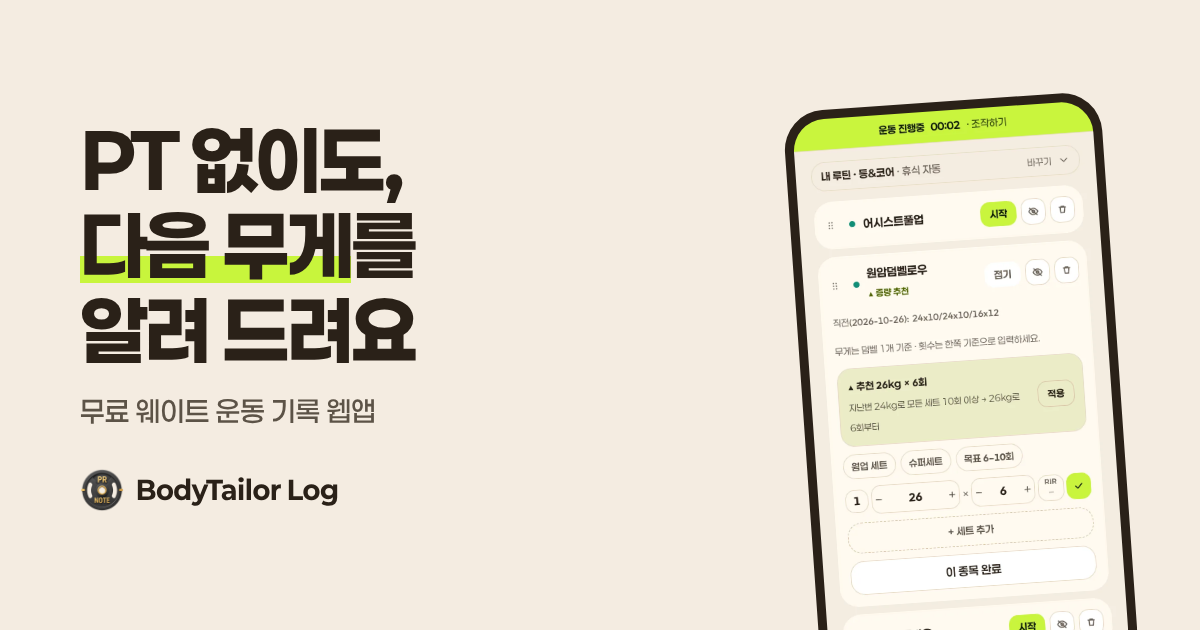
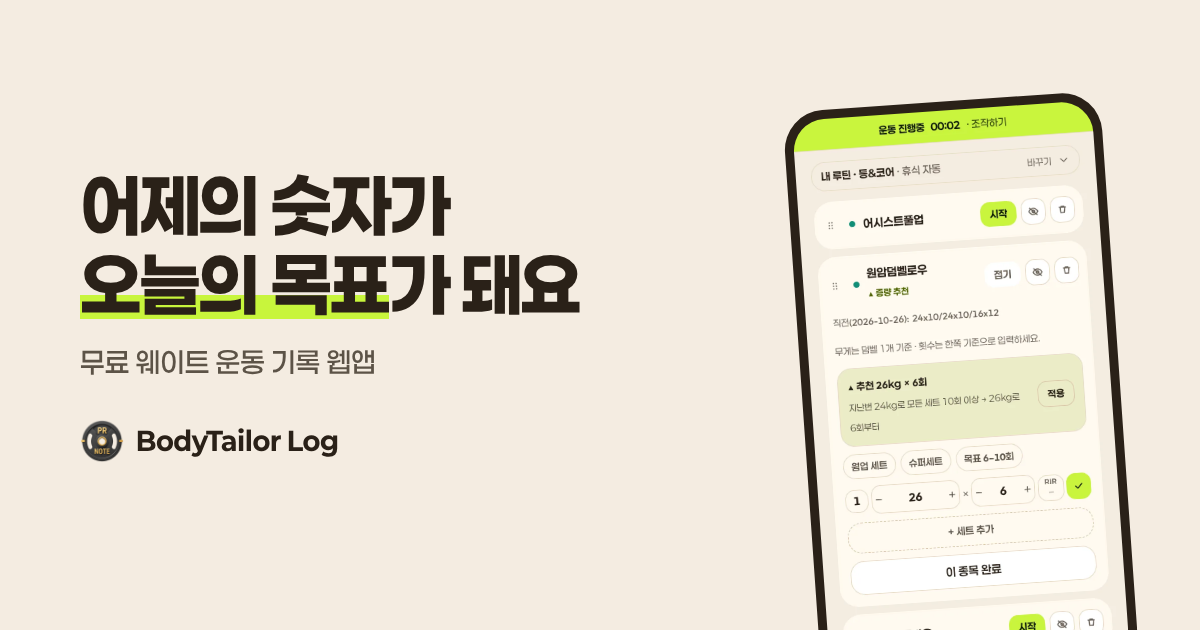
홍보 페이지 카피 변경: 어제의 숫자가 오늘의 목표가 돼요
히어로·부제·title·OG 문구와 공유 이미지 교체

Claude-Session: https://claude.ai/code/session_01KGz5zQHjeey5XFfUp58q9P

Changed region(s): [[0.0617, 0.181, 0.4933, 0.6032], [0.0617, 0.6333, 0.3083, 0.8143]]

diff --git a/public/intro/index.html b/public/intro/index.html
@@ -3,12 +3,12 @@
 <head>
 <meta charset="UTF-8" />
 <meta name="viewport" content="width=device-width, initial-scale=1.0, viewport-fit=cover" />
-<title>BodyTailor Log — PT 없이도, 다음 무게를 알려 주는 운동 기록</title>
-<meta name="description" content="세트를 기록하면 다음에 들 무게와 그 이유를 알려 주는 무료 웨이트 운동 기록 웹앱. 설치 없이 바로 시작하세요." />
+<title>BodyTailor Log — 어제의 숫자가 오늘의 목표가 돼요</title>
+<meta name="description" content="어제의 숫자가 오늘의 목표가 돼요. 세트를 기록하면 다음에 들 무게와 그 이유를 알려 주는 무료 웨이트 운동 기록 웹앱. 설치 없이 바로 시작하세요." />
 <link rel="canonical" href="https://bodytailor-log.vercel.app/intro/" />
 <meta property="og:type" content="website" />
-<meta property="og:title" content="BodyTailor Log — PT 없이도, 다음 무게를 알려 드려요" />
-<meta property="og:description" content="세트를 기록하면 다음 무게와 그 이유를 알려 주는 무료 운동 기록 웹앱" />
+<meta property="og:title" content="BodyTailor Log — 어제의 숫자가 오늘의 목표가 돼요" />
+<meta property="og:description" content="세트를 기록하면 다음 무게와 그 이유를 알려 주는 무료 웨이트 운동 기록 웹앱" />
 <meta property="og:image" content="https://bodytailor-log.vercel.app/intro/img/og.png" />
 <meta property="og:url" content="https://bodytailor-log.vercel.app/intro/" />
 <meta name="twitter:card" content="summary_large_image" />
@@ -73,7 +73,6 @@ button { font: inherit; color: inherit; cursor: pointer; }
 .hero h1 .ln { display: block; overflow: hidden; padding-bottom: .04em; }
 .hero h1 .ln > span { display: inline-block; transform: translateY(105%); animation: rise .9s cubic-bezier(.2,.8,.2,1) forwards; }
 .hero h1 .ln:nth-child(2) > span { animation-delay: .1s; }
-.hero h1 .ln:nth-child(3) > span { animation-delay: .2s; }
 .hero h1 .mark { position: relative; white-space: nowrap; }
 .hero h1 .mark::after { content: ''; position: absolute; left: -2px; right: -4px; bottom: .08em; height: .32em; background: var(--lime); z-index: -1; border-radius: 3px; transform-origin: left; transform: scaleX(0); animation: sweep .7s .75s cubic-bezier(.6,0,.2,1) forwards; }
 .hero h1 .mark > span { position: relative; }
@@ -241,11 +240,10 @@ footer .wrap { display: flex; flex-wrap: wrap; gap: 8px 18px; justify-content: s
     <div class="wrap">
       <div>
         <h1 id="hero-title">
-          <span class="ln"><span>PT 없이도,</span></span>
-          <span class="ln"><span><span class="mark"><span>다음 무게</span></span>를</span></span>
-          <span class="ln"><span>알려 드려요</span></span>
+          <span class="ln"><span>어제의 숫자가</span></span>
+          <span class="ln"><span><span class="mark"><span>오늘의 목표</span></span>가 돼요</span></span>
         </h1>
-        <p class="lede">세트를 체크하면 휴식이 시작되고, 다음 운동에서 들 무게와 그 이유까지 알려 주는 웨이트 운동 기록이에요. 혼자 운동해도 어디까지 올릴지 고민하지 않아도 돼요.</p>
+        <p class="lede">지난번 60kg × 10회를 적어 두면, 오늘은 62.5kg에 도전할 이유가 생겨요. 세트를 체크하면 다음에 들 무게와 그 이유까지 알려 주는 웨이트 운동 기록이에요.</p>
         <div class="hero-cta">
           <a class="btn btn-lime" href="/">무료로 시작하기</a>
           <small>설치 없이 브라우저에서 바로 · 구글 계정으로 로그인</small>

diff --git a/CHANGELOG.md b/CHANGELOG.md
@@ -2,6 +2,8 @@
 
 (20줄 초과로 src/App.jsx 상단 주석에서 이 파일로 분리됨)
 
+[2026-10-29] 홍보 페이지 카피 변경 — "어제의 숫자가 오늘의 목표가 돼요"(사용자 선택) | public/intro/index.html(히어로·부제·title·OG 문구), public/intro/img/og.png
+
 [2026-10-29] 홍보 페이지 /intro 신설(플랜핏·짐워크·RISE 벤치마킹) | public/intro/index.html(신규), public/intro/img/*(앱 화면 캡처 webp·공유 이미지), CLAUDE.md
 - 같은 Vercel 주소 아래 정적 페이지(앱 번들과 분리, 앱 코드 변경 없음). 주소: /intro/
 - 구성: 히어로 + 직접 눌러 보는 세트 기록 데모(체크 → 휴식 → 앱과 같은 규칙의 다음 무게 추천, 횟수를 바꾸면 추천이 달라짐) → 운동명 흐름 띠 → 사용법 3단계 → 기능 4가지(넓은 화면은 스크롤에 맞춰 폰 화면 전환) → 추천 규칙(숫자 카운트업) → 안심 포인트 3가지 → FAQ 6개 → 마무리 CTA.
